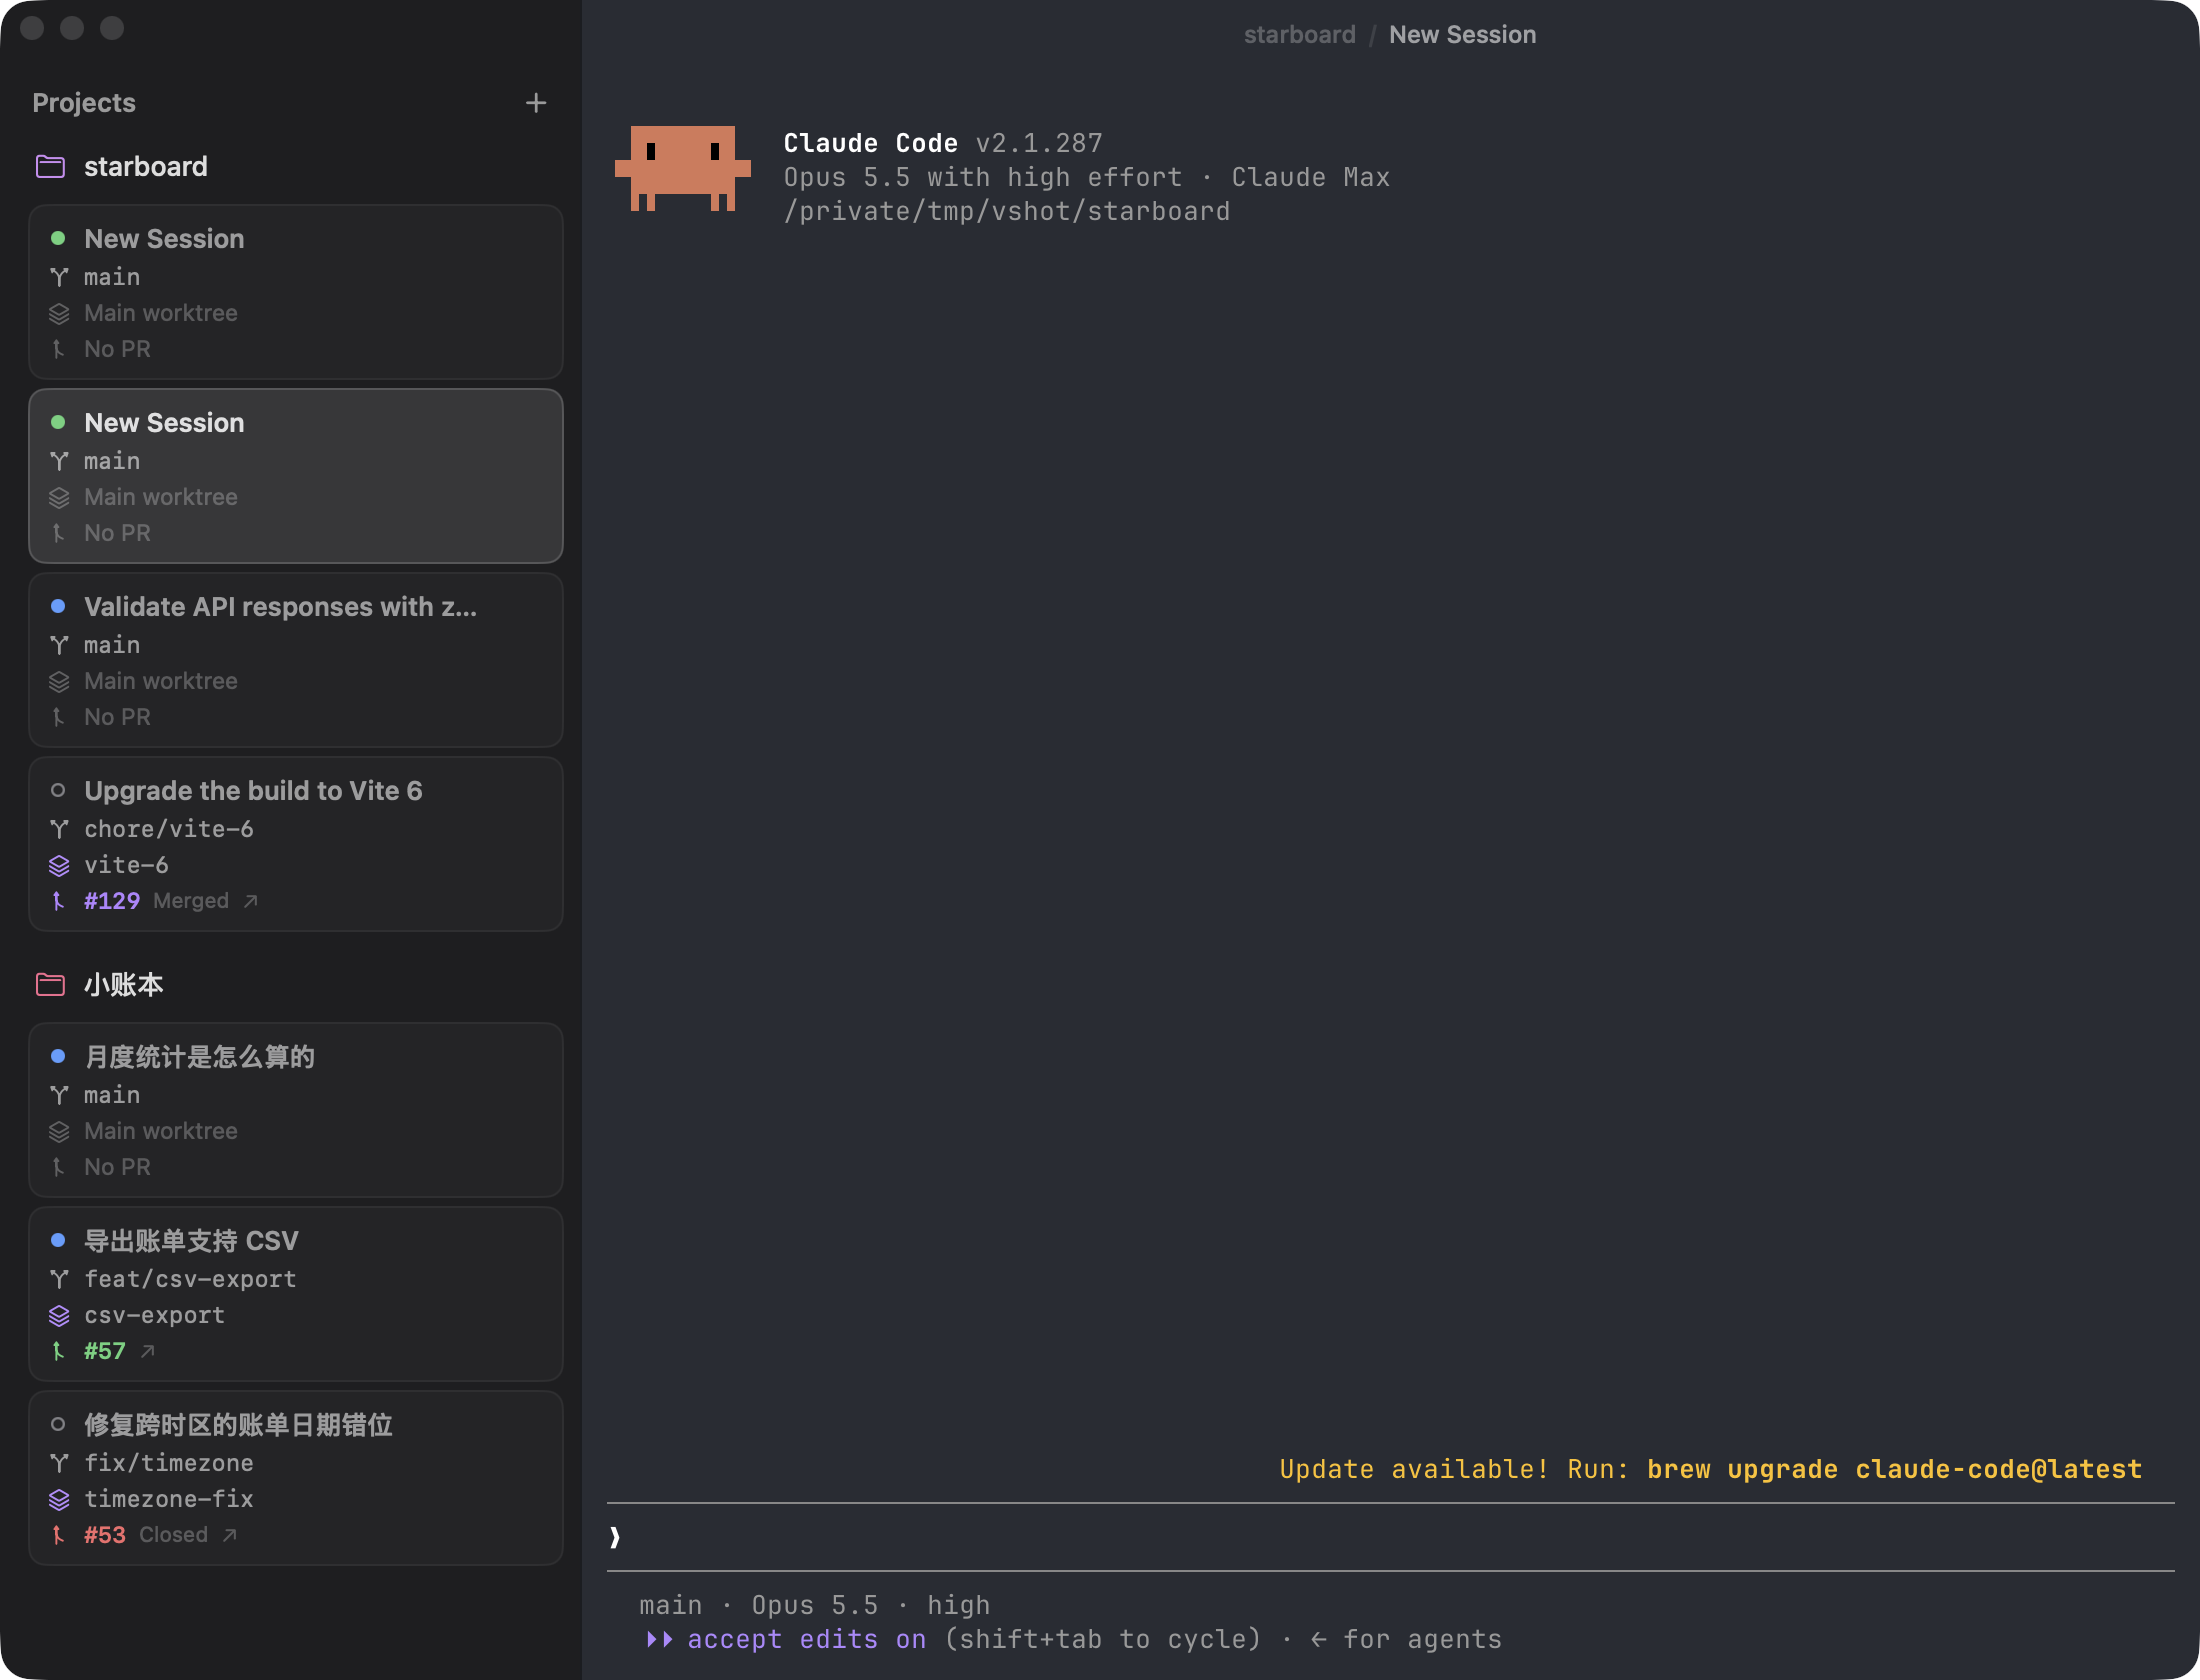
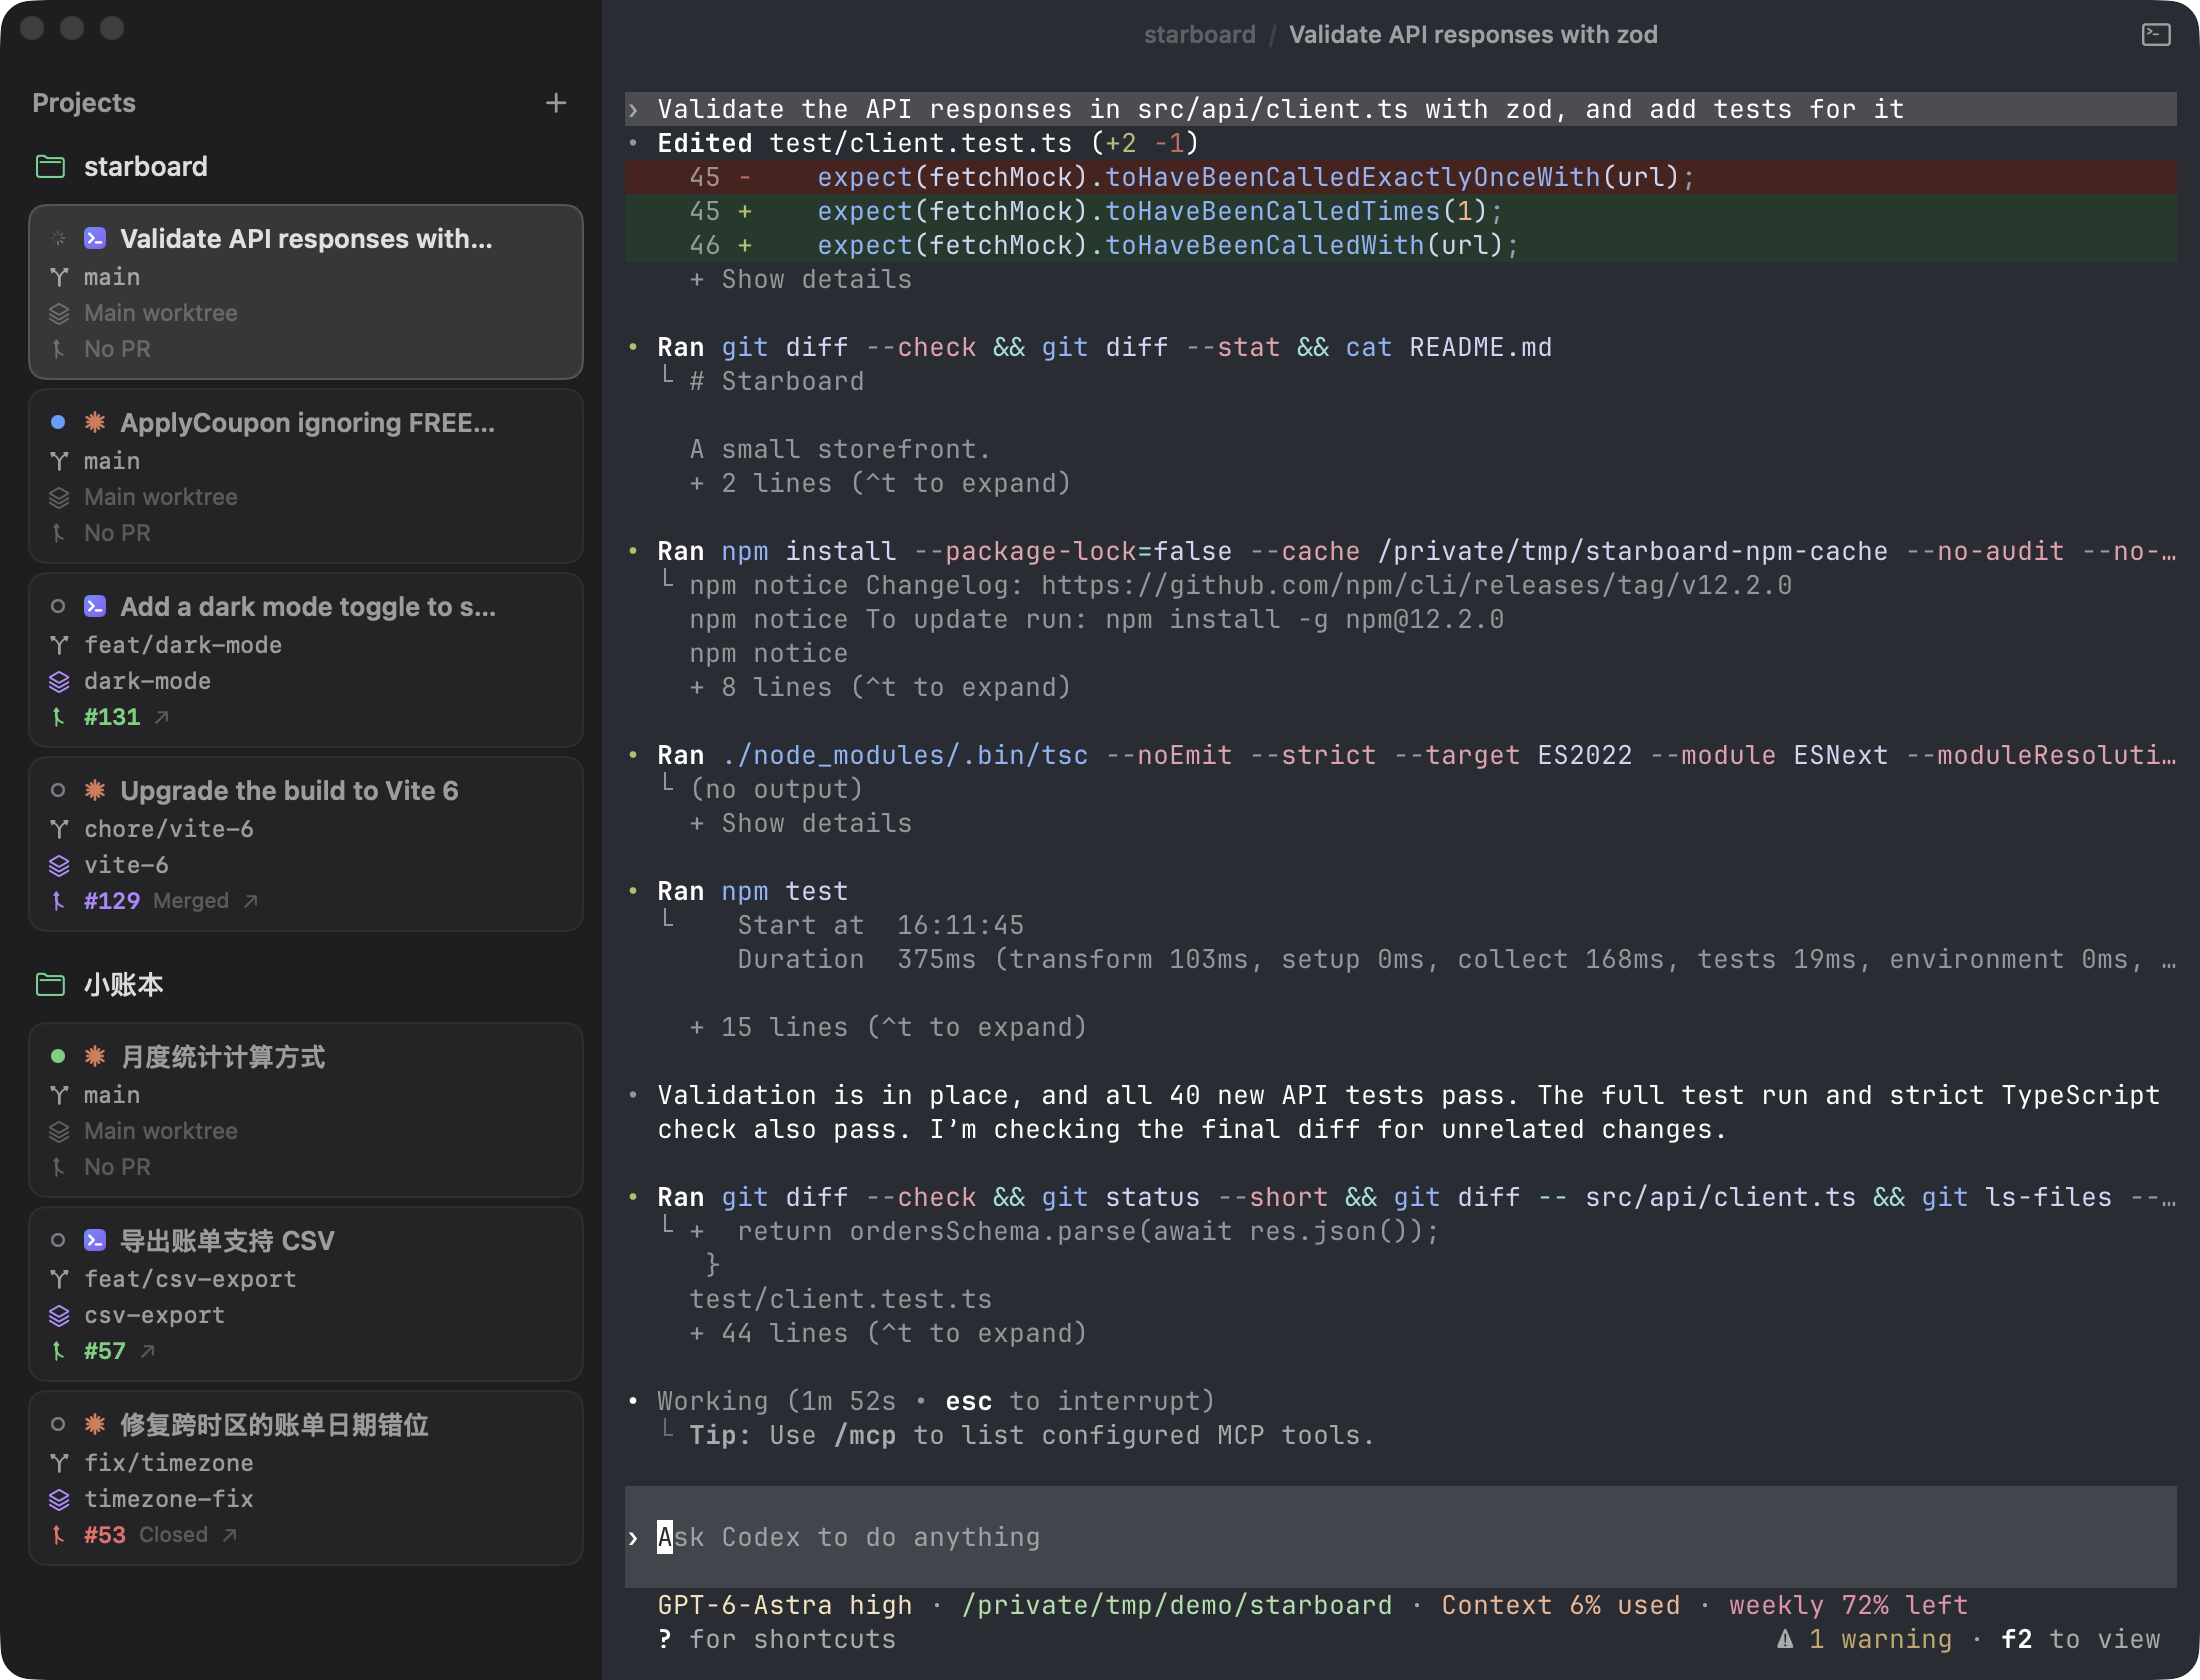
Update the README screenshot to show Claude Code and Codex sessions

diff --git a/README.md b/README.md
@@ -12,7 +12,7 @@ The terminal engine is [Ghostty](https://ghostty.org) (libghostty), and it uses 
 
 > Vhostty = **V**ertical + G**hostty**: Ghostty's tabs, turned on their side and moved into a sidebar.
 
-<p align="center"><img src="docs/screenshot.png" alt="Vhostty with two projects: session cards showing status, branch, worktree and PR"></p>
+<p align="center"><img src="docs/screenshot.png" alt="Vhostty with two projects: Claude Code and Codex session cards showing status, branch, worktree and PR, with a Codex session working on the right"></p>
 
 The interface follows your system language (English or Simplified Chinese).
 

diff --git a/README.zh-CN.md b/README.zh-CN.md
@@ -12,7 +12,7 @@ Vhostty 是一个 macOS 原生终端，专门用来同时跑好几个 Claude Cod
 
 > Vhostty = **V**ertical + G**hostty**：把 Ghostty 的标签页竖过来，放进左侧栏。
 
-<p align="center"><img src="docs/screenshot.png" alt="Vhostty 截图：两个项目，会话卡片上显示状态、分支、worktree 和 PR"></p>
+<p align="center"><img src="docs/screenshot.png" alt="Vhostty 截图：两个项目，Claude Code 和 Codex 的会话卡片上显示状态、分支、worktree 和 PR，右边是一个正在工作的 Codex 会话"></p>
 
 ## 功能
 
